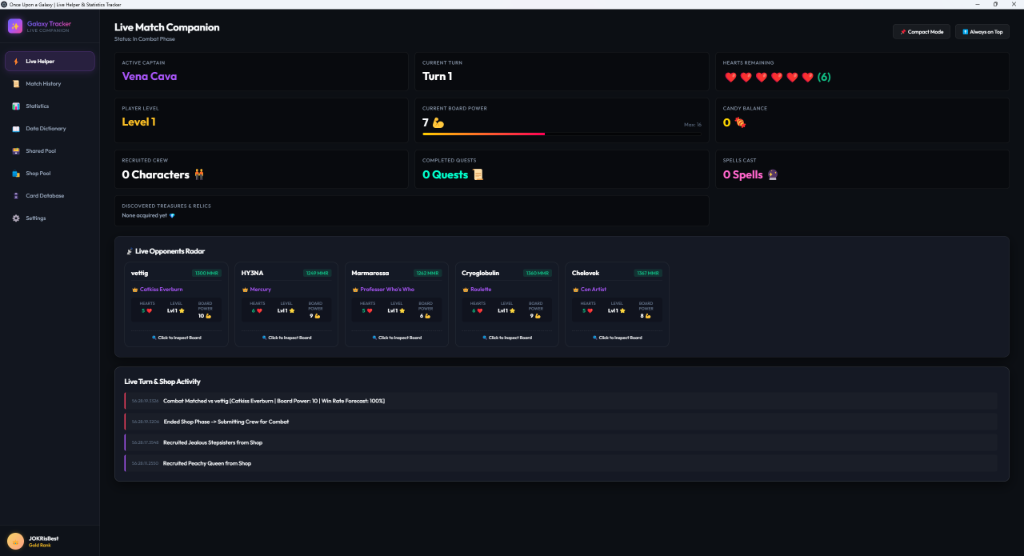
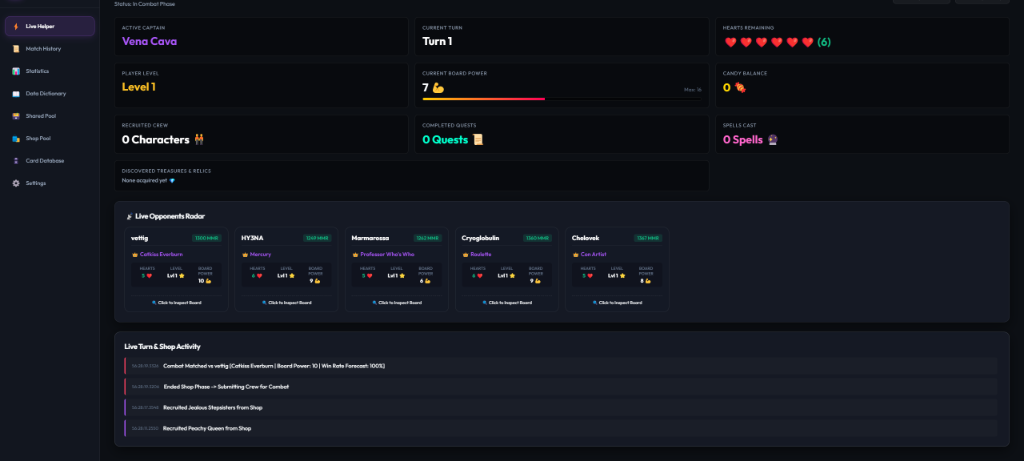
Move gallery to hero mockup with fade animation and crop screenshots

diff --git a/index.html b/index.html
@@ -36,14 +36,15 @@
         </div>
         <div class="hero-visual">
             <div class="app-mockup"><img src="assets/mockup.jpg" alt="Galaxy Tracker App Screenshot" style="width: 100%; height: 100%; object-fit: cover; display: block;"></div></div>
-                <div class="mockup-body">
-                    <div class="skeleton-row header" style="width: 100%;"></div>
-                    <div class="skeleton-row" style="width: 80%;"></div>
-                    <div class="skeleton-row" style="width: 90%;"></div>
-                    <div class="skeleton-row" style="width: 70%;"></div>
-                    <div class="skeleton-row" style="width: 85%;"></div>
+                                <div class="mockup-body mockup-carousel">
+                    <img src="assets/screen1.png" class="carousel-slide active" alt="Live Companion">
+                    <img src="assets/screen2.png" class="carousel-slide" alt="Analytics">
+                    <img src="assets/screen3.png" class="carousel-slide" alt="Shop Pool">
+                    <img src="assets/screen4.png" class="carousel-slide" alt="Database">
+                    <img src="assets/screen5.png" class="carousel-slide" alt="Radar">
                 </div>
             </div>
+        </div>
         </div>
     </main>
 
@@ -60,23 +61,23 @@
         </div>
     </section>
 
-    <section class="gallery">
-        <h2>App Features in Action</h2>
-        <div class="carousel-container">
-            <div class="carousel-track">
-                <img src="assets/screen1.png" class="gallery-img" alt="Live Match Companion">
-                <img src="assets/screen2.png" class="gallery-img" alt="Performance Analytics">
-                <img src="assets/screen3.png" class="gallery-img" alt="Shop Pool Tracking">
-                <img src="assets/screen4.png" class="gallery-img" alt="Card Database Editor">
-                <img src="assets/screen5.png" class="gallery-img" alt="Opponent Board Radar">
-            </div>
-        </div>
-    </section>
+    
 
     <footer>
         <p>&copy; 2026 Galaxy Tracker. Not affiliated with Once Upon a Galaxy.</p>
     </footer>
+    <script>
+        const slides = document.querySelectorAll('.carousel-slide');
+        let currentSlide = 0;
+        
+        setInterval(() => {
+            slides[currentSlide].classList.remove('active');
+            currentSlide = (currentSlide + 1) % slides.length;
+            slides[currentSlide].classList.add('active');
+        }, 3500);
+    </script>
 </body>
 </html>
+
 
 

diff --git a/styles.css b/styles.css
@@ -333,56 +333,27 @@ footer {
     font-weight: 700;
 }
 
-/* Gallery Section */
-.gallery {
-    padding: 6rem 5%;
-    text-align: center;
+
+/* Mockup Carousel */
+.mockup-carousel {
+    position: relative;
+    padding: 0 !important;
+    flex-grow: 1;
+    overflow: hidden;
 }
 
-.gallery h2 {
-    font-size: 2.5rem;
-    font-weight: 800;
-    margin-bottom: 3rem;
-    color: #fff;
-}
-
-.carousel-container {
+.carousel-slide {
+    position: absolute;
+    top: 0;
+    left: 0;
     width: 100%;
-    overflow-x: auto;
-    padding-bottom: 2rem;
+    height: 100%;
+    object-fit: cover;
+    object-position: top;
+    opacity: 0;
+    transition: opacity 1s ease-in-out;
 }
 
-.carousel-track {
-    display: flex;
-    gap: 2rem;
-    padding: 0 2rem;
-    width: max-content;
-    margin: 0 auto;
-}
-
-.gallery-img {
-    height: 450px;
-    border-radius: 12px;
-    border: 1px solid var(--glass-border);
-    box-shadow: 0 20px 40px -10px rgba(0, 0, 0, 0.6);
-    transition: transform 0.3s ease, border-color 0.3s ease;
-    cursor: crosshair;
-}
-
-.gallery-img:hover {
-    transform: scale(1.02) translateY(-10px);
-    border-color: var(--accent-primary);
-}
-
-/* Custom Scrollbar for Carousel */
-.carousel-container::-webkit-scrollbar {
-    height: 8px;
-}
-.carousel-container::-webkit-scrollbar-track {
-    background: rgba(255,255,255,0.02);
-    border-radius: 10px;
-}
-.carousel-container::-webkit-scrollbar-thumb {
-    background: var(--accent-primary);
-    border-radius: 10px;
+.carousel-slide.active {
+    opacity: 1;
 }
